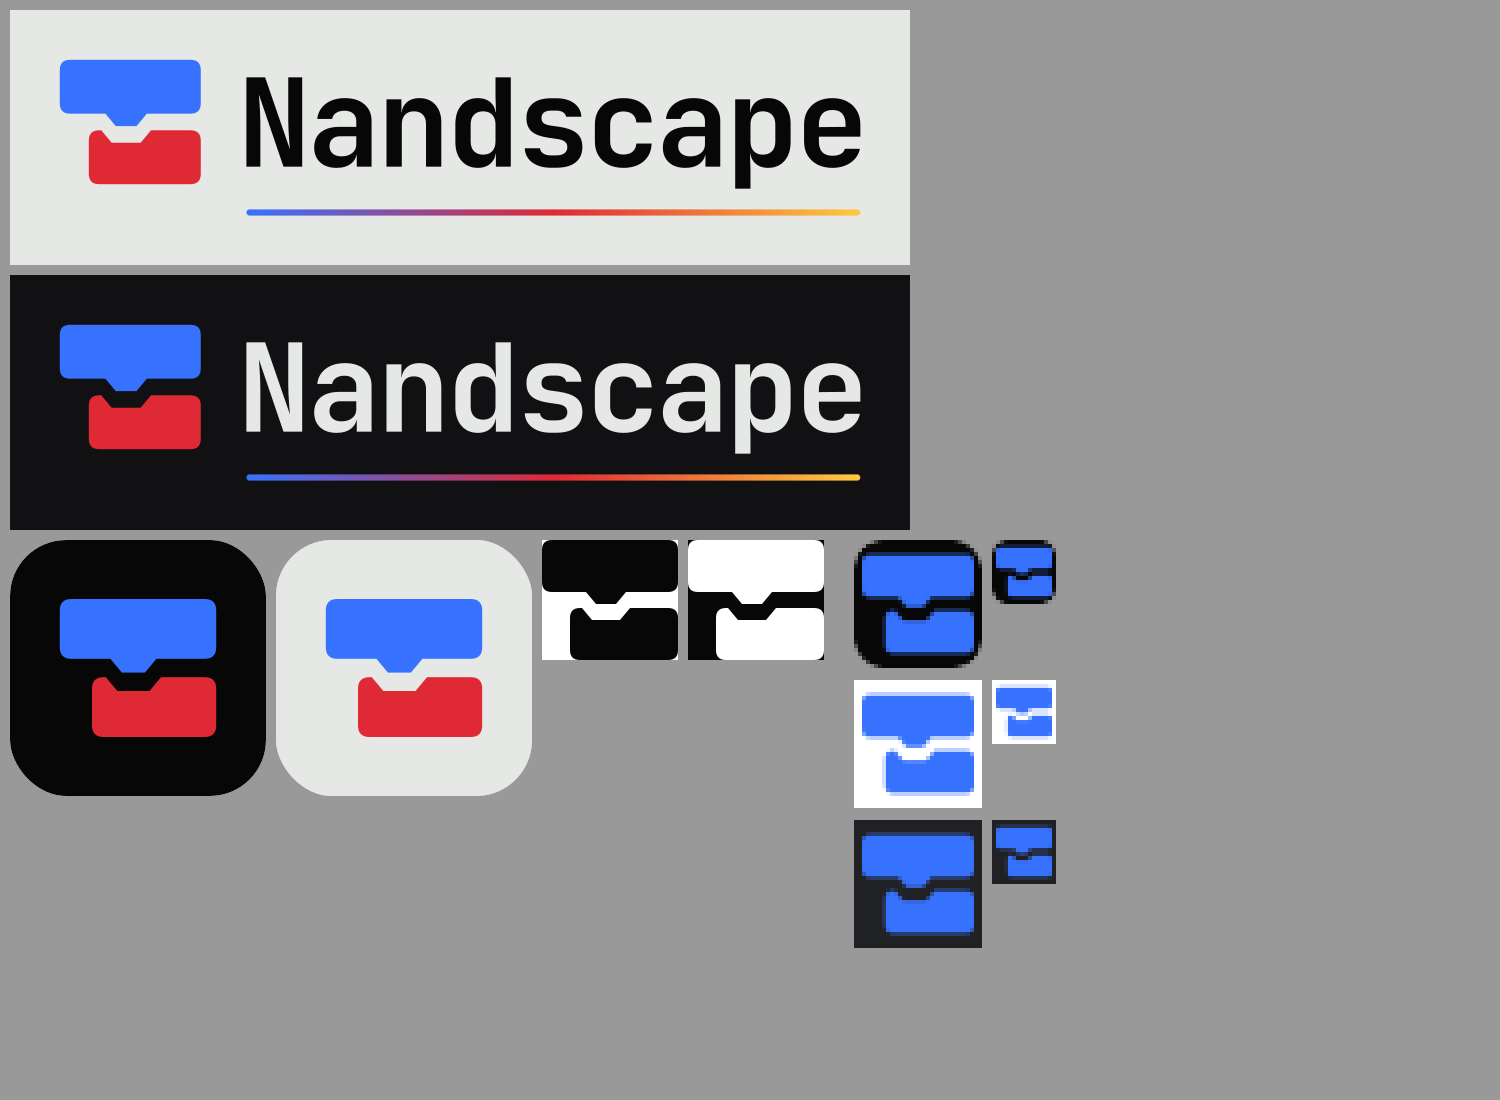
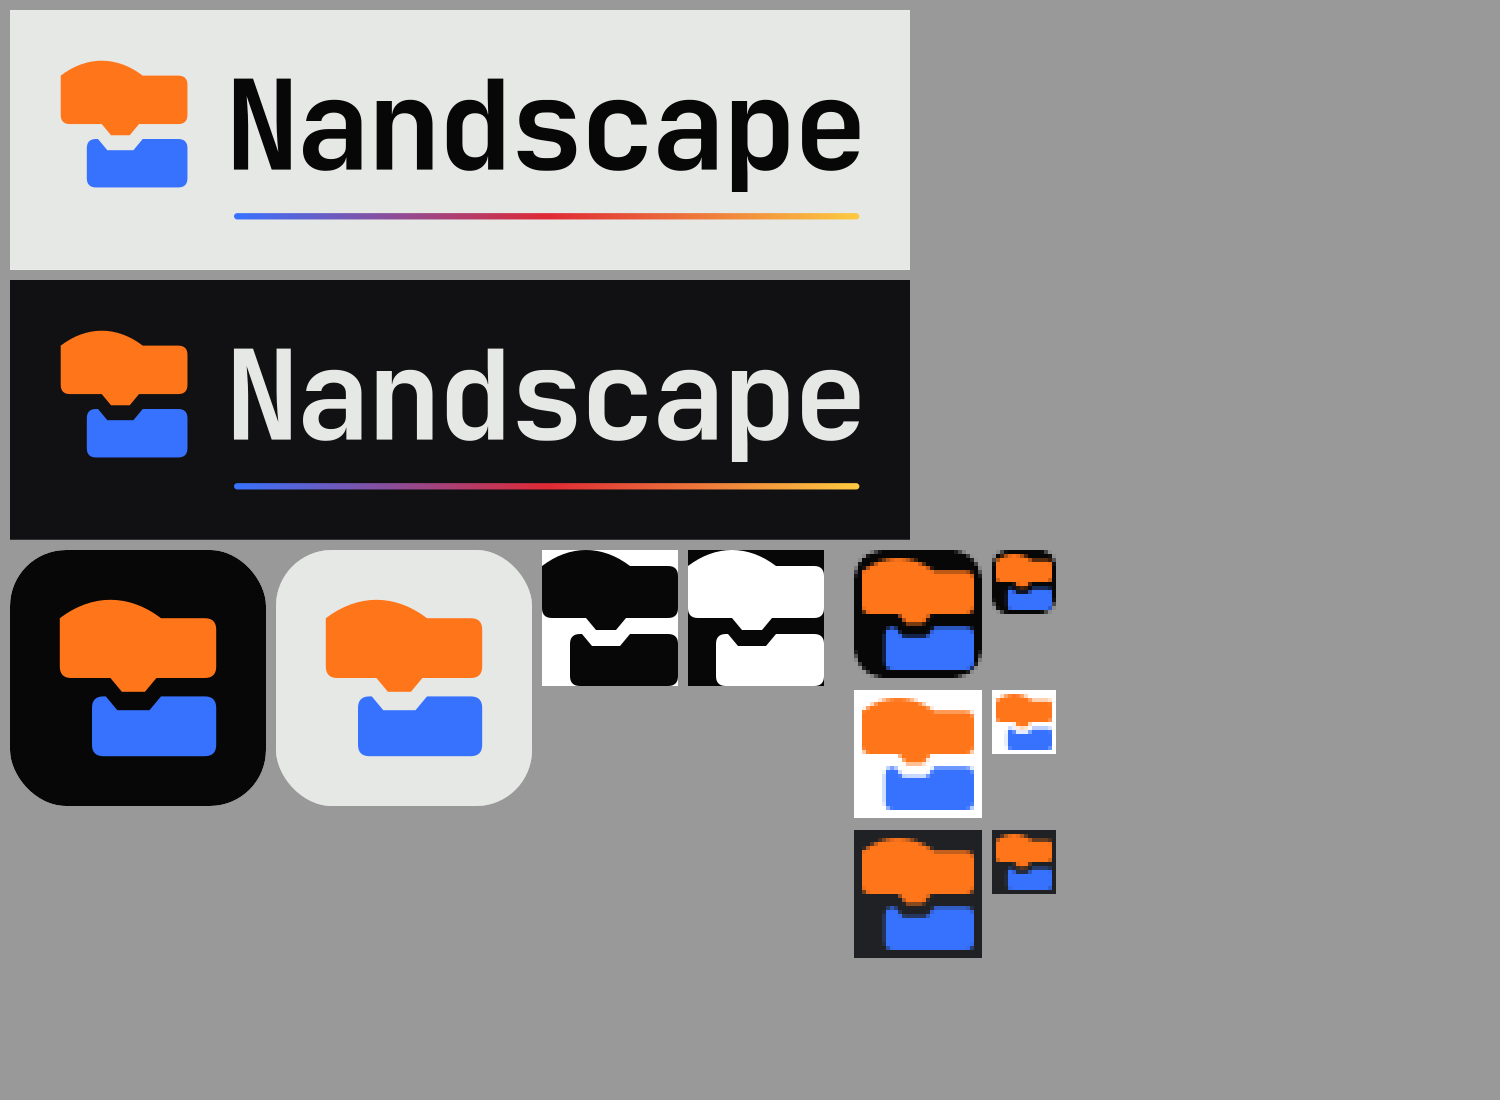
feat(brand): switch to orange hat-block mark and add navbar lockup
Update the logo set in public/brand/ to the revised mark: the top block
is now an orange Scratch-style hat block over the blue notched block.

- Add --brand-orange (#FF751A) as a brand swatch
- Logo component uses the new mark geometry and colours
- Add LogoLockup, the horizontal lockup inlined with the wordmark on
  currentColor so one copy follows light and dark themes, and use it
  in the navbar in place of the mark plus Inter text
- Re-rasterise favicon.ico and apple-touch-icon.png from the new SVGs

Changed region(s): [[0.0, 0.1855, 0.7053, 0.8964], [0.0307, 0.0309, 0.5827, 0.1855]]

diff --git a/apps/web/components/icons.tsx b/apps/web/components/icons.tsx
@@ -4,24 +4,64 @@ interface IconProps {
   className?: string;
 }
 
+// The two snap blocks, same geometry as public/brand/mark.svg: an orange
+// Scratch-style "hat" block whose tab sits in the blue block's notch.
+const MARK_TOP = "M0 8C14 -2.67 30 -2.67 44 8H63Q68 8 68 13V29Q68 34 63 34H42L37 40H27L22 34H5Q0 34 0 29Z";
+const MARK_BOTTOM = "M14 47Q14 42 19 42H20L25 48H39L44 42H63Q68 42 68 47V63Q68 68 63 68H19Q14 68 14 63Z";
+
 export function Logo({className}: IconProps) {
   return (
     <svg
-      viewBox="0 0 68 60"
+      viewBox="0 0 68 68"
       fill="none"
       xmlns="http://www.w3.org/2000/svg"
       className={className}
       aria-hidden="true"
     >
-      {/* Two snap blocks, same geometry as public/brand/mark.svg. The top
-          block's tab sits in the bottom block's notch. */}
+      <path d={MARK_TOP} fill="var(--brand-orange)" />
+      <path d={MARK_BOTTOM} fill="var(--brand-blue)" />
+    </svg>
+  );
+}
+
+/**
+ * The horizontal lockup from public/brand/logo-horizontal-*.svg, cropped to
+ * its artwork. The wordmark (JetBrains Mono Bold as outlines) is on
+ * currentColor, so a single inline copy follows the theme instead of
+ * swapping between the light and dark files.
+ */
+export function LogoLockup({className}: IconProps) {
+  return (
+    <svg
+      viewBox="46 46 761 155"
+      xmlns="http://www.w3.org/2000/svg"
+      className={className}
+      role="img"
+      aria-label="Nandscape"
+    >
+      <defs>
+        <linearGradient id="nandscape-lockup-stripe" x1="0" x2="1" y1="0" y2="0">
+          <stop offset="0" style={{stopColor: "var(--brand-blue)"}} />
+          <stop offset=".5" style={{stopColor: "var(--brand-red)"}} />
+          <stop offset="1" style={{stopColor: "var(--brand-yellow)"}} />
+        </linearGradient>
+      </defs>
+      <g transform="translate(48 48) scale(1.76471)">
+        <path d={MARK_TOP} fill="var(--brand-orange)" />
+        <path d={MARK_BOTTOM} fill="var(--brand-blue)" />
+      </g>
       <path
-        d="M0 5Q0 0 5 0H63Q68 0 68 5V21Q68 26 63 26H42L37 32H27L22 26H5Q0 26 0 21Z"
-        fill="var(--brand-blue)"
+        transform="translate(203.50 151.07) scale(0.118)"
+        fill="currentColor"
+        d="M72 0V-730H225L428 -140Q425 -172 421.5 -215.5Q418 -259 416.0 -304.5Q414 -350 414 -384V-730H528V0H375L174 -590Q176 -561 179.0 -520.0Q182 -479 184.0 -436.0Q186 -393 186 -357V0ZM809.0 10Q724.0 10 675.0 -35.0Q626.0 -80 626.0 -156Q626.0 -237 680.0 -281.0Q734.0 -325 833.0 -325H970.0V-372Q970.0 -412 944.0 -434.5Q918.0 -457 873.0 -457Q832.0 -457 805.0 -439.0Q778.0 -421 773.0 -390H651.0Q660.0 -468 721.0 -514.0Q782.0 -560 877.0 -560Q978.0 -560 1036.5 -509.5Q1095.0 -459 1095.0 -373V0H974.0V-96H972.0Q964.0 -54 929.0 -26Q884.0 10 809.0 10ZM850.0 -84Q903.0 -84 936.5 -111.0Q970.0 -138 970.0 -181V-248H835.0Q797.0 -248 774.0 -226.0Q751.0 -204 751.0 -168Q751.0 -129 777.5 -106.5Q804.0 -84 850.0 -84ZM1217.0 0V-550H1339.0V-445H1341.0Q1348.0 -493 1379.0 -522Q1418.0 -560 1487.0 -560Q1568.0 -560 1616.5 -506.0Q1665.0 -452 1665.0 -361V0H1540.0V-348Q1540.0 -398 1514.0 -425.0Q1488.0 -452 1441.0 -452Q1395.0 -452 1368.5 -424.0Q1342.0 -396 1342.0 -344V0ZM1963.0 10Q1881.0 10 1830.5 -47.0Q1780.0 -104 1780.0 -200V-349Q1780.0 -446 1830.0 -503.0Q1880.0 -560 1963.0 -560Q2031.0 -560 2071.0 -522Q2102.0 -492 2109.0 -445H2112.0L2108.0 -576V-730H2233.0V0H2111.0V-105H2109.0Q2102.0 -58 2071.0 -29Q2031.0 10 1963.0 10ZM2007.0 -98Q2055.0 -98 2081.5 -126.5Q2108.0 -155 2108.0 -206V-344Q2108.0 -395 2081.5 -423.5Q2055.0 -452 2007.0 -452.0Q1959.0 -452 1932.0 -424.0Q1905.0 -396 1905.0 -344V-206Q1905.0 -154 1932.0 -126.0Q1959.0 -98 2007.0 -98ZM2559.0 9Q2496.0 9 2449.0 -11.0Q2402.0 -31 2375.5 -66.5Q2349.0 -102 2347.0 -150H2472.0Q2474.0 -124 2497.5 -108.0Q2521.0 -92 2559.0 -92H2603.0Q2649.0 -92 2672.0 -110.0Q2695.0 -128 2695.0 -159Q2695.0 -188 2674.5 -204.5Q2654.0 -221 2611.0 -226L2543.0 -236Q2449.0 -249 2405.0 -286.0Q2361.0 -323 2361.0 -397Q2361.0 -474 2413.0 -516.5Q2465.0 -559 2566.0 -559H2604.0Q2696.0 -559 2751.0 -518.0Q2806.0 -477 2810.0 -408H2685.0Q2682.0 -430 2660.5 -444.0Q2639.0 -458 2604.0 -458H2566.0Q2523.0 -458 2503.5 -442.5Q2484.0 -427 2484.0 -397Q2484.0 -369 2501.0 -355.5Q2518.0 -342 2556.0 -336L2627.0 -326Q2725.0 -312 2771.5 -273.5Q2818.0 -235 2818.0 -160Q2818.0 -80 2763.5 -35.5Q2709.0 9 2603.0 9ZM3153.0 10Q3083.0 10 3030.5 -16.5Q2978.0 -43 2949.0 -91.5Q2920.0 -140 2920.0 -206V-344Q2920.0 -411 2949.0 -459.0Q2978.0 -507 3030.5 -533.5Q3083.0 -560 3153.0 -560Q3257.0 -560 3319.0 -506.5Q3381.0 -453 3384.0 -361H3259.0Q3256.0 -404 3228.5 -427.5Q3201.0 -451 3153.0 -451Q3103.0 -451 3074.0 -423.5Q3045.0 -396 3045.0 -345V-206Q3045.0 -155 3074.0 -127.0Q3103.0 -99 3153.0 -99Q3201.0 -99 3228.5 -122.5Q3256.0 -146 3259.0 -189H3384.0Q3381.0 -97 3319.0 -43.5Q3257.0 10 3153.0 10ZM3659.0 10Q3574.0 10 3525.0 -35.0Q3476.0 -80 3476.0 -156Q3476.0 -237 3530.0 -281.0Q3584.0 -325 3683.0 -325H3820.0V-372Q3820.0 -412 3794.0 -434.5Q3768.0 -457 3723.0 -457Q3682.0 -457 3655.0 -439.0Q3628.0 -421 3623.0 -390H3501.0Q3510.0 -468 3571.0 -514.0Q3632.0 -560 3727.0 -560Q3828.0 -560 3886.5 -509.5Q3945.0 -459 3945.0 -373V0H3824.0V-96H3822.0Q3814.0 -54 3779.0 -26Q3734.0 10 3659.0 10ZM3700.0 -84Q3753.0 -84 3786.5 -111.0Q3820.0 -138 3820.0 -181V-248H3685.0Q3647.0 -248 3624.0 -226.0Q3601.0 -204 3601.0 -168Q3601.0 -129 3627.5 -106.5Q3654.0 -84 3700.0 -84ZM4067.0 180V-550H4189.0V-445H4191.0Q4198.0 -492 4229.0 -522Q4269.0 -560 4337.0 -560Q4420.0 -560 4470.0 -503.0Q4520.0 -446 4520.0 -350V-201Q4520.0 -137 4497.5 -89.5Q4475.0 -42 4434.0 -16.0Q4393.0 10 4337.0 10Q4269.0 10 4229.0 -29Q4198.0 -58 4191.0 -105H4188.0L4192.0 26V180ZM4293.0 -98Q4341.0 -98 4368.0 -126.0Q4395.0 -154 4395.0 -206V-344Q4395.0 -396 4368.0 -424.0Q4341.0 -452 4293.0 -452Q4246.0 -452 4219.0 -423.5Q4192.0 -395 4192.0 -344V-206Q4192.0 -155 4219.0 -126.5Q4246.0 -98 4293.0 -98ZM4861.0 10Q4791.0 10 4739.0 -17.0Q4687.0 -44 4658.5 -92.5Q4630.0 -141 4630.0 -206V-344Q4630.0 -409 4658.5 -457.5Q4687.0 -506 4739.0 -533.0Q4791.0 -560 4861.0 -560Q4930.0 -560 4981.5 -533.0Q5033.0 -506 5061.5 -457.5Q5090.0 -409 5090.0 -344V-245H4751.0V-206Q4751.0 -148 4779.0 -118.5Q4807.0 -89 4862.0 -89Q4904.0 -89 4930.0 -103.5Q4956.0 -118 4963.0 -146H5086.0Q5072.0 -75 5010.5 -32.5Q4949.0 10 4861.0 10ZM4969.0 -325V-345Q4969.0 -402 4942.0 -432.5Q4915.0 -463 4861.0 -463.0Q4807.0 -463 4779.0 -432.0Q4751.0 -401 4751.0 -344V-323Z"
       />
-      <path
-        d="M14 39Q14 34 19 34H20L25 40H39L44 34H63Q68 34 68 39V55Q68 60 63 60H19Q14 60 14 55Z"
-        fill="var(--brand-red)"
+      <rect
+        x="212.00"
+        y="192.31"
+        width="592.12"
+        height="6"
+        rx="3"
+        fill="url(#nandscape-lockup-stripe)"
       />
     </svg>
   );

diff --git a/apps/web/components/navbar.tsx b/apps/web/components/navbar.tsx
@@ -17,7 +17,7 @@ import {
   X,
 } from "lucide-react";
 
-import { Logo } from "@/components/icons";
+import { LogoLockup } from "@/components/icons";
 import { ThemeToggle } from "@/components/theme-toggle";
 import { AuthStatus } from "@/components/auth-status";
 import { cn } from "@/lib/cn";
@@ -180,9 +180,8 @@ export function Navbar() {
             outer two sharing the leftover width equally, so the links sit on
             the true centre line of the page rather than wherever the logo's
             width happens to push them. */}
-        <Link href="/" className="flex shrink-0 items-center gap-2.5 justify-self-start rounded-md">
-          <Logo className="h-7 w-7 shrink-0 text-ink" />
-          <span className="text-lg font-bold tracking-tight text-ink">Nandscape</span>
+        <Link href="/" className="flex shrink-0 items-center justify-self-start rounded-md">
+          <LogoLockup className="h-9 w-auto shrink-0 text-ink" />
         </Link>
 
         <ul className="hidden items-center gap-1 lg:flex">

diff --git a/apps/web/app/globals.css b/apps/web/app/globals.css
@@ -28,6 +28,7 @@
      tokens below, which are these same hues stepped for contrast. */
   --brand-black: #080708;
   --brand-blue: #3772ff;
+  --brand-orange: #ff751a;
   --brand-red: #df2935;
   --brand-yellow: #fdca40;
   --brand-grey: #e6e8e6;
@@ -272,6 +273,7 @@
 
   --color-brand-black: var(--brand-black);
   --color-brand-blue: var(--brand-blue);
+  --color-brand-orange: var(--brand-orange);
   --color-brand-red: var(--brand-red);
   --color-brand-yellow: var(--brand-yellow);
   --color-brand-grey: var(--brand-grey);

diff --git a/apps/web/public/brand/README.md b/apps/web/public/brand/README.md
@@ -1,30 +1,30 @@
 # Nandscape logo set (snap-blocks symbol)
 
 Where it is used:
-- `components/icons.tsx` `Logo` inlines the `mark.svg` paths (navbar, footer, flowchart dock, practice nav). Its fills use `var(--brand-blue)` / `var(--brand-red)`, which is possible because it is inline rather than an `<img>`.
+- `components/icons.tsx` `Logo` inlines the `mark.svg` paths (footer, flowchart dock, practice nav). `LogoLockup` inlines `logo-horizontal-*.svg` (the navbar), with the wordmark on `currentColor` so one component serves both themes. Fills use `var(--brand-orange)` / `var(--brand-blue)`, which is possible because they are inline rather than an `<img>`.
 - `app/layout.tsx` `metadata.icons` declares `/brand/favicon.svg`, `/favicon.ico` and `/apple-touch-icon.png`.
 - `public/favicon.ico` (16/32/48, PNG-in-ICO) is rasterised from `favicon.svg`; `public/apple-touch-icon.png` (180×180) from `logo-square-dark.svg`. Re-rasterise both if the mark changes.
 
-Symbol: two Scratch-style code blocks. The top one is full width with a tab on its bottom edge; the bottom one is indented and has the matching notch. The geometry is identical in every file; only the colours change.
+Symbol: two Scratch-style code blocks. The top one is a "hat" block (the domed start block, like "when green flag clicked"), full width with a tab on its bottom edge; the bottom one is indented and has the matching notch. The geometry is identical in every file; only the colours change.
 
 | File | Use |
 |---|---|
-| favicon.svg | 32×32 favicon, Signal Blue symbol on an Ink Black rounded tile (2 colours) |
+| favicon.svg | 32×32 favicon, orange + blue symbol on an Ink Black rounded tile |
 | favicon-transparent.svg | same, transparent background |
 | logo-square-dark.svg | 512×512 app icon/avatar on #080708 |
 | logo-square-light.svg | 512×512 app icon/avatar on #E6E8E6 |
 | logo-horizontal-light.svg | lockup, #080708 wordmark, transparent bg (for #E6E8E6 or white) |
 | logo-horizontal-dark.svg | lockup, #E6E8E6 wordmark, transparent bg (for #111012) |
-| mark.svg | symbol only, blue + red |
+| mark.svg | symbol only, orange + blue |
 | mark-mono-black.svg / mark-mono-white.svg | single flat colour |
 | preview.png | render check at real sizes, not a production asset |
 
-Colours are exact hex values from apps/web/app/globals.css (--brand-*). They are hardcoded because CSS variables don't resolve in an SVG loaded via <img> or as a favicon.
+Colours: top (hat) block is Signal Orange #FF751A (`--brand-orange` in globals.css), bottom block is Signal Blue #3772FF. Other colours are exact hex values from apps/web/app/globals.css (--brand-*). They are hardcoded because CSS variables don't resolve in an SVG loaded via <img> or as a favicon.
 
 The wordmark is JetBrains Mono Bold converted to outlines, so it needs no font. The stripe under it is --brand-gradient.
 
 Decisions and caveats:
 - Yellow dot left out of the favicon. At 16px it would be about 1px, and there's no spot for it that doesn't clutter the symbol.
-- At 16px the gap between the blocks is about 1px and the tab and notch are gone. It reads as two stacked blue bars, the lower one indented. It still reads as a distinct shape, but the "puzzle" detail only shows from 32px up.
+- At 16px the gap between the blocks is about 1px and the tab and notch are gone. It reads as an orange bar over an indented blue one. It still reads as a distinct shape, but the "puzzle" detail only shows from 32px up.
 - Blue #3772FF is ~4.2:1 on white. That's fine for a logo but not for text.
 - No web-app manifest icons yet.
